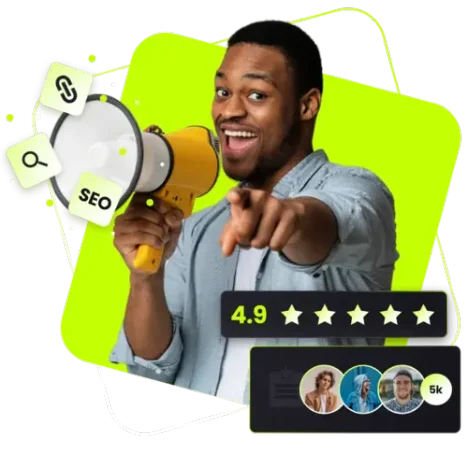
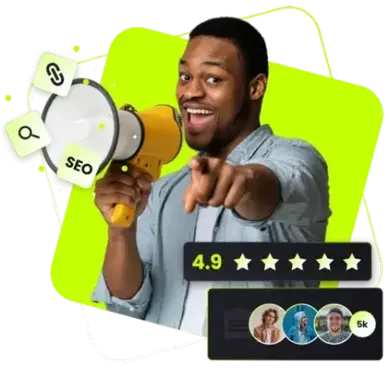
updated

diff --git a/src/components/BlogWritingServices/index.jsx b/src/components/BlogWritingServices/index.jsx
@@ -1,5 +1,10 @@
 import React from 'react'
-import serviceicon1 from "../../assets/images/services/blogwriting/serviceicon1.svg";
+import serviceicon1 from "../../assets/images/services/blogwriting/service1.svg";
+import serviceicon2 from "../../assets/images/services/blogwriting/service2.svg";
+import serviceicon3 from "../../assets/images/services/blogwriting/service3.svg";
+import serviceicon4 from "../../assets/images/services/blogwriting/service4.svg";
+import serviceicon5 from "../../assets/images/services/blogwriting/service5.svg";
+import serviceicon6 from "../../assets/images/services/blogwriting/service6.svg";
 import { FaLongArrowAltRight } from 'react-icons/fa';
 import { Link } from 'react-router-dom';
 
@@ -36,7 +41,7 @@ const BlogWritingServices = () => {
                 <div className="col-lg-4 col-md-6">
                     <div className="blogwrting-service-card">
                         <div className="blogwritng-service-icon">
-                            <img src={serviceicon1} alt="image" />
+                            <img src={serviceicon2} alt="image" />
                         </div>
                         <div className="blogwritng-service-cardflex">
                             <div className="blogservice-service-txt">
@@ -52,7 +57,7 @@ const BlogWritingServices = () => {
                 <div className="col-lg-4 col-md-6">
                     <div className="blogwrting-service-card">
                         <div className="blogwritng-service-icon">
-                            <img src={serviceicon1} alt="image" />
+                            <img src={serviceicon3} alt="image" />
                         </div>
                         <div className="blogwritng-service-cardflex">
                             <div className="blogservice-service-txt">
@@ -68,7 +73,7 @@ const BlogWritingServices = () => {
                 <div className="col-lg-4 col-md-6">
                     <div className="blogwrting-service-card">
                         <div className="blogwritng-service-icon">
-                            <img src={serviceicon1} alt="image" />
+                            <img src={serviceicon4} alt="image" />
                         </div>
                         <div className="blogwritng-service-cardflex">
                             <div className="blogservice-service-txt">
@@ -84,7 +89,7 @@ const BlogWritingServices = () => {
                 <div className="col-lg-4 col-md-6">
                     <div className="blogwrting-service-card">
                         <div className="blogwritng-service-icon">
-                            <img src={serviceicon1} alt="image" />
+                            <img src={serviceicon5} alt="image" />
                         </div>
                         <div className="blogwritng-service-cardflex">
                             <div className="blogservice-service-txt">
@@ -100,7 +105,7 @@ const BlogWritingServices = () => {
                 <div className="col-lg-4 col-md-6">
                     <div className="blogwrting-service-card">
                         <div className="blogwritng-service-icon">
-                            <img src={serviceicon1} alt="image" />
+                            <img src={serviceicon6} alt="image" />
                         </div>
                         <div className="blogwritng-service-cardflex">
                             <div className="blogservice-service-txt">

diff --git a/src/screens/Services/WebsiteContent.jsx b/src/screens/Services/WebsiteContent.jsx
@@ -11,9 +11,9 @@ import herobannerinnerimg from "../../assets/images/services/websitecontent/hero
 import WebsiteContentServices from "../../components/WebsiteContentServices";
 import Performance from "../../components/Performance";
 import WebsiteContentProcess from "../../components/WebsiteContentProcess";
-import performance1 from "../../assets/images/services/brandstrategy/icons/performance1.svg"
-import performance2 from "../../assets/images/services/brandstrategy/icons/performance2.svg"
-import performance3 from "../../assets/images/services/brandstrategy/icons/performance3.svg"
+import performance1 from "../../assets/images/services/websitecontent/performance1.svg"
+import performance2 from "../../assets/images/services/websitecontent/performance2.svg"
+import performance3 from "../../assets/images/services/websitecontent/performance3.svg"
 import HomeBlogsSec from "../../components/HomeBlogsSec";
 import LocationContact from "../../components/LocationContact";
 import ServiceFaqs from "../../components/ServiceFaqs";

diff --git a/src/screens/locationpages/DomainTransferFlorida.jsx b/src/screens/locationpages/DomainTransferFlorida.jsx
@@ -112,7 +112,7 @@ const DomainTransferFlorida = () => {
   return (
        <>
       <ReactHelmet
-        title="Domain Transfer Services Florida | Fast, Secure, Reliable Transfers"
+        title="Domain Transfer Services Florida"
         description="Transfer your domain in Florida with safe, quick, and expert guidance. Smooth migration, ICANN-compliant process, and 24/7 support for an easy domain transfer experience."
         keywords="domain transfer Florida, domain transfer services Florida, domain transfer Florida, domain transfer providers in Florida, transfer a domain Florida"
         baseUrl="https://unitedwebdevelopers.com/domain-transfer-florida"

diff --git a/src/index.css b/src/index.css
@@ -5563,6 +5563,8 @@ section.blogwriting-order-sec {
     overflow-x: hidden;
 }
 
+
+
 /************* Blog Writing Page CSS End *************/
 
 
